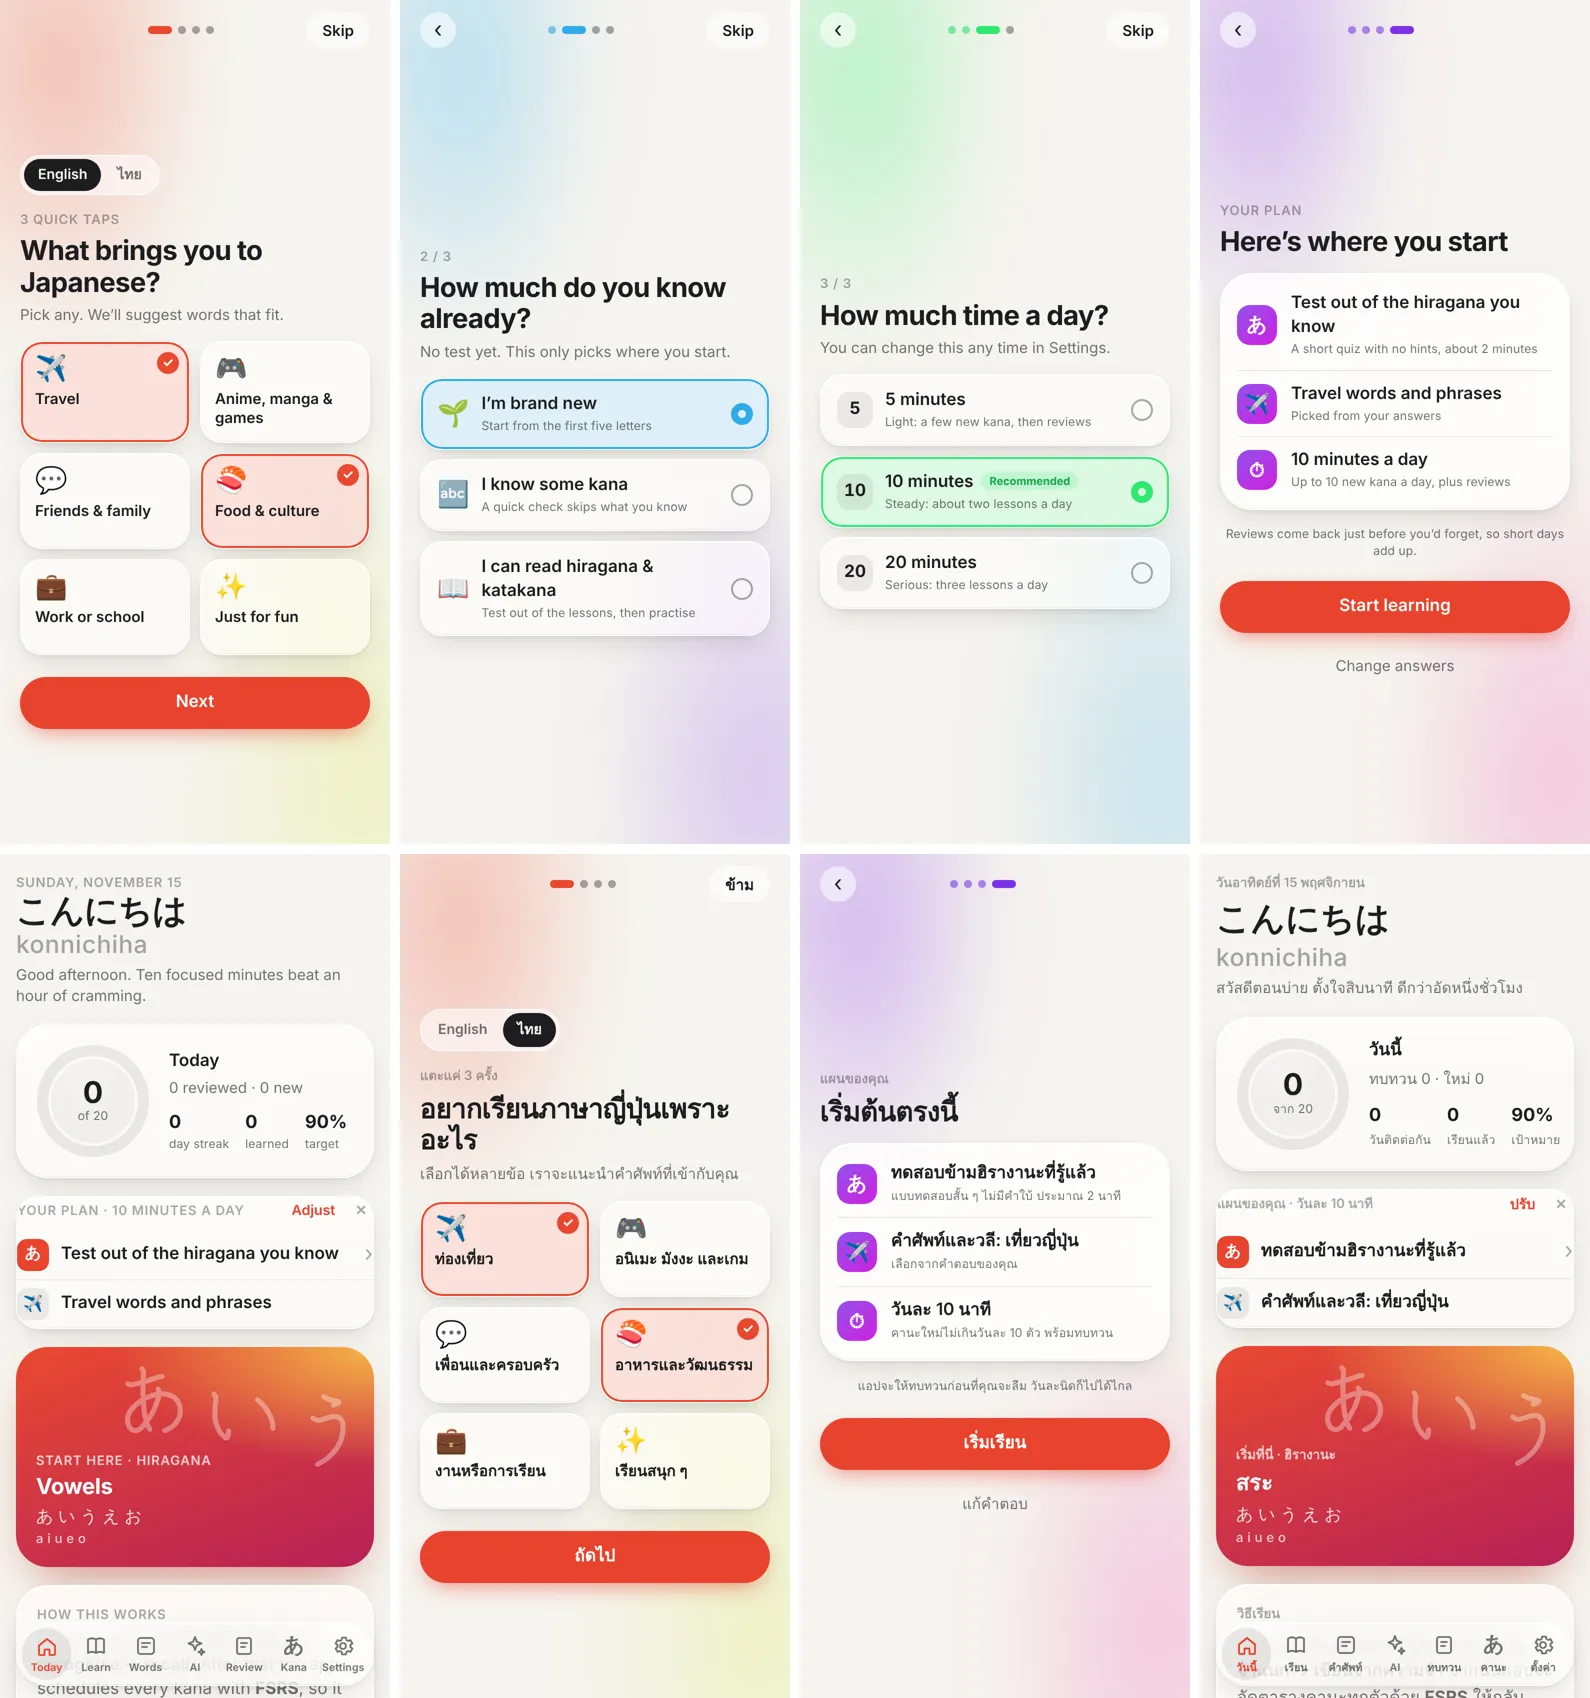
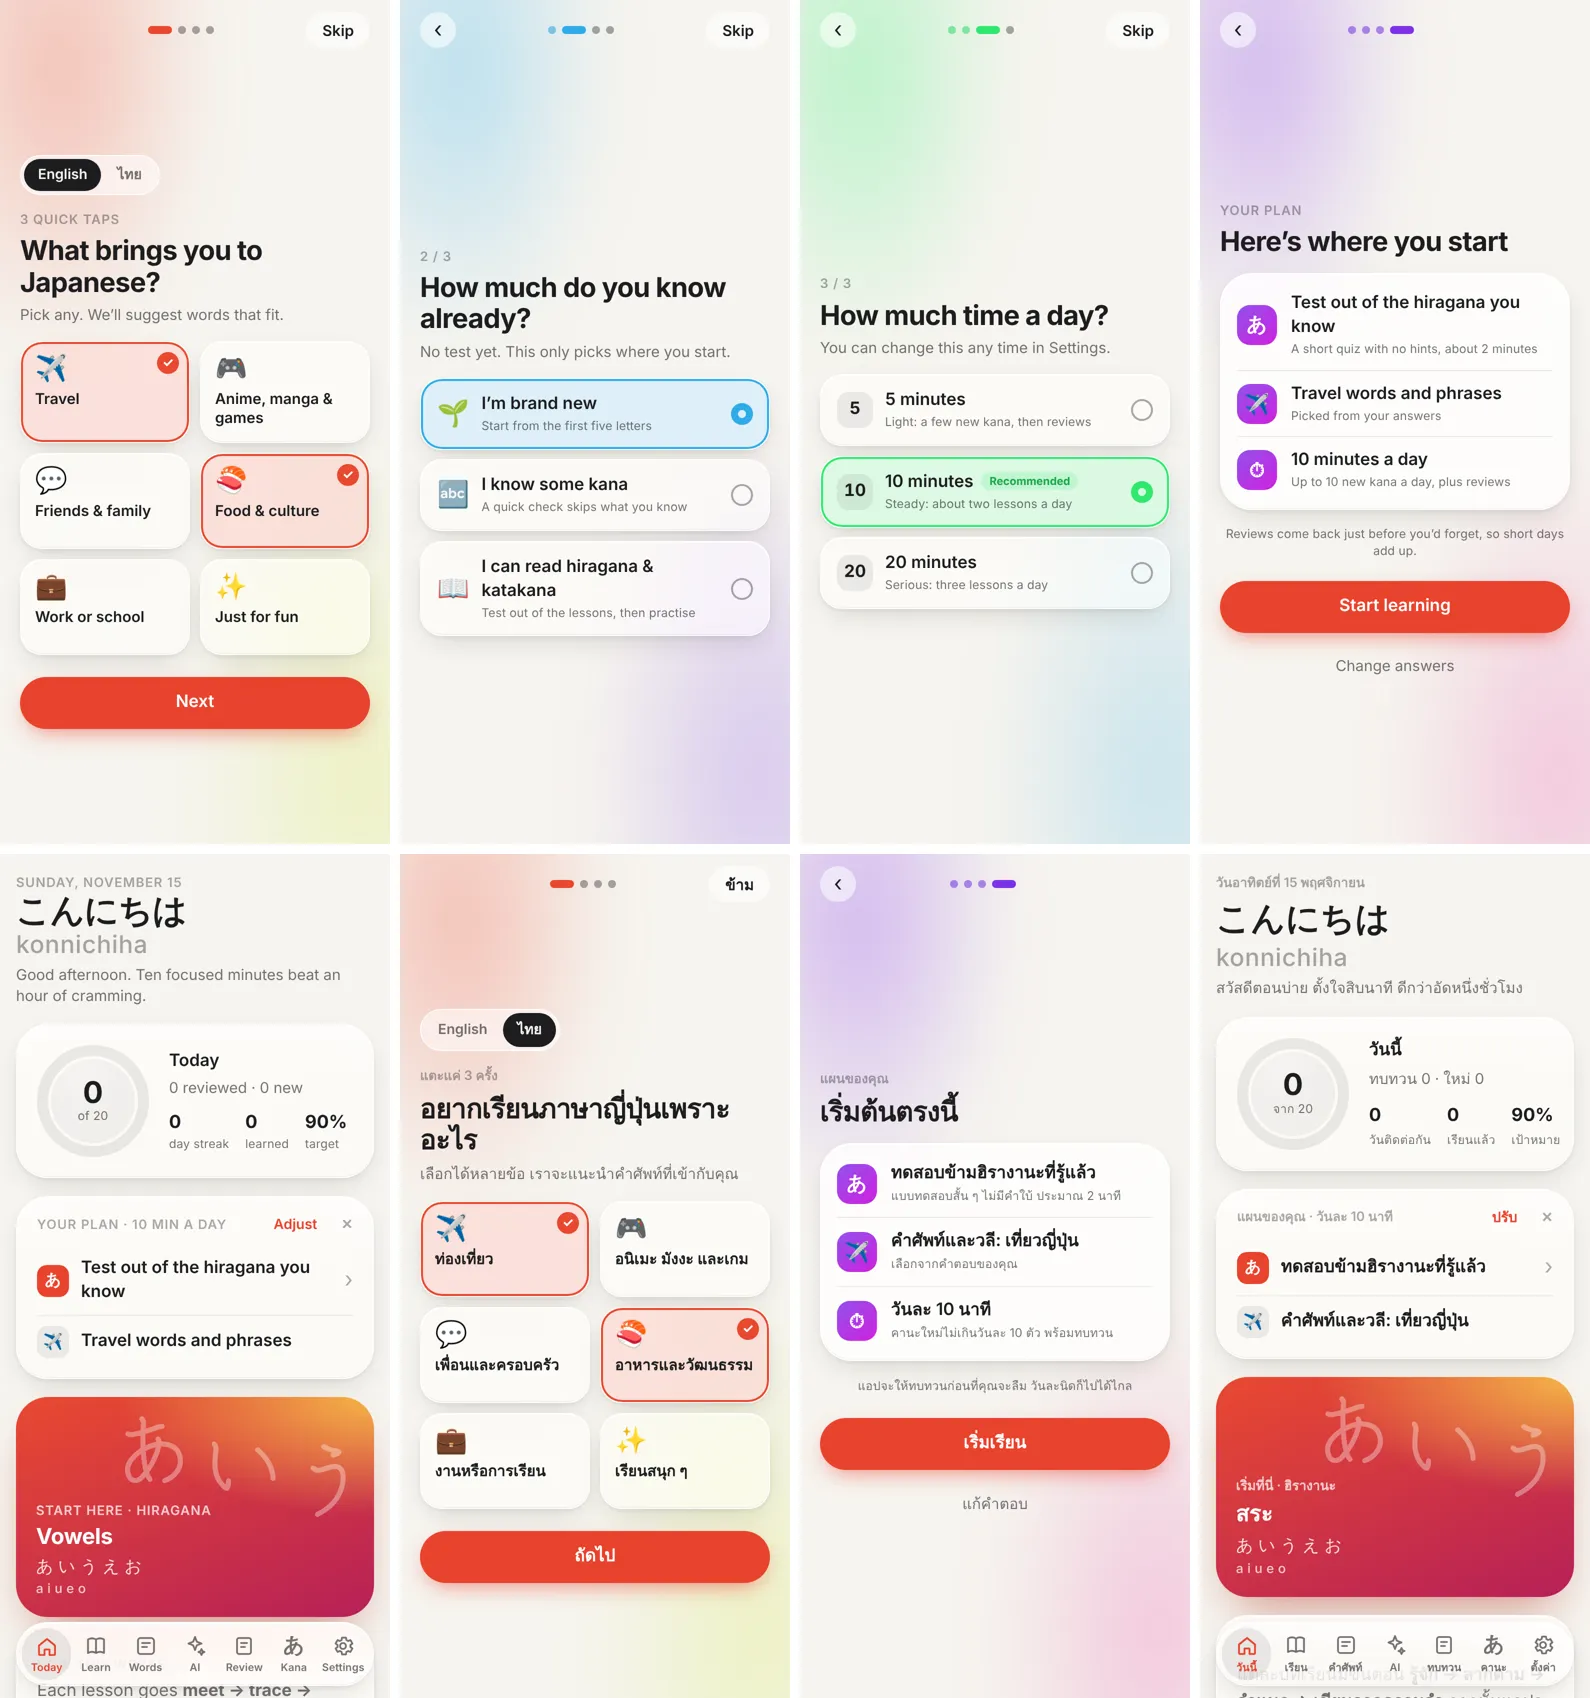
Plan card: give it its own padding, keep the header on one line
.card padding is scoped to the Today page, so the card had none.

Claude-Session: https://claude.ai/code/session_01GfmxDkrYXcT8eFfX14fPEK

Changed region(s): [[0.0, 0.6867, 0.2465, 1.0], [0.7396, 0.6867, 1.0, 0.9676], [0.7704, 0.9988, 0.9862, 1.0]]

diff --git a/src/lib/components/PlanCard.svelte b/src/lib/components/PlanCard.svelte
@@ -46,7 +46,7 @@
 	<section class="glass sheen card plan rise" style:--i={i}>
 		{#if p}
 			<div class="head">
-				<div class="eyebrow">{t.card.title} · {t.steps.daily(p.minutes)}</div>
+				<div class="eyebrow">{t.card.title} · {t.card.perDay(p.minutes)}</div>
 				<span class="spacer"></span>
 				<button class="link" onclick={() => (ui.showOnboarding = true)}>{t.card.adjust}</button>
 				<button class="link" onclick={() => profile.hide()} aria-label={t.card.hide}>✕</button>
@@ -80,10 +80,25 @@
 {/if}
 
 <style>
+	/* .card padding lives in the Today page's scoped styles, so set our own to match */
 	.plan {
 		display: flex;
 		flex-direction: column;
-		gap: 6px;
+		gap: 4px;
+		padding: 16px 20px 10px;
+		border-radius: var(--r-l);
+	}
+	.plan:has(.nudge) {
+		padding-bottom: 16px;
+	}
+	.head {
+		margin: -4px -8px 2px 0;
+	}
+	.head .eyebrow {
+		min-width: 0;
+		white-space: nowrap;
+		overflow: hidden;
+		text-overflow: ellipsis;
 	}
 	.head,
 	.nudge {
@@ -102,7 +117,8 @@
 		font: inherit;
 		font-size: 14px;
 		font-weight: 600;
-		padding: 4px 6px;
+		min-height: 32px;
+		padding: 4px 8px;
 		cursor: pointer;
 	}
 	.link[aria-label] {
@@ -117,7 +133,8 @@
 		display: flex;
 		align-items: center;
 		gap: 12px;
-		padding: 8px 0;
+		padding: 10px 0;
+		min-height: 52px;
 		color: inherit;
 		text-decoration: none;
 	}

diff --git a/src/lib/onboarding/strings.ts b/src/lib/onboarding/strings.ts
@@ -43,6 +43,7 @@ interface Strings {
 	};
 	card: {
 		title: string;
+		perDay: (min: number) => string;
 		adjust: string;
 		hide: string;
 		done: string;
@@ -104,6 +105,7 @@ export const STRINGS: Record<Lang, Strings> = {
 		},
 		card: {
 			title: 'Your plan',
+			perDay: (m) => `${m} min a day`,
 			adjust: 'Adjust',
 			hide: 'Hide',
 			done: 'Done',
@@ -160,6 +162,7 @@ export const STRINGS: Record<Lang, Strings> = {
 		},
 		card: {
 			title: 'แผนของคุณ',
+			perDay: (m) => `วันละ ${m} นาที`,
 			adjust: 'ปรับ',
 			hide: 'ซ่อน',
 			done: 'เสร็จแล้ว',
